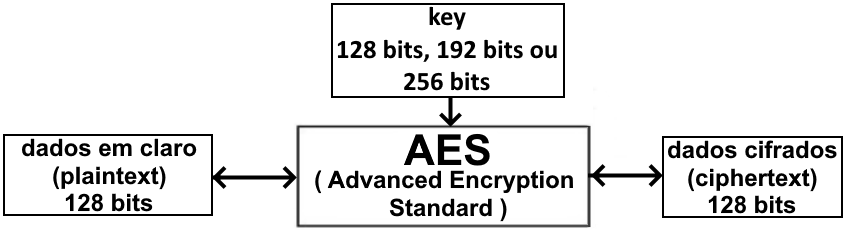
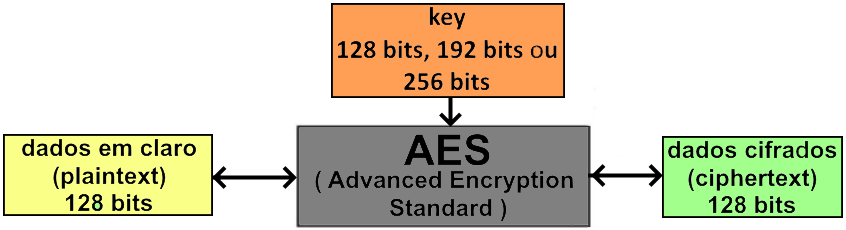
Entrega da semana 1

diff --git a/docs/reports/semana_01.md b/docs/reports/semana_01.md
@@ -12,7 +12,7 @@
 
 A primeira semana do projeto foi dedicada à apresentação do escopo geral, ao estudo inicial do algoritmo AES e do protocolo SPI, à preparação do ambiente de desenvolvimento e à organização do repositório e do backlog inicial.
 
-O [backlog inicial](../backlog.md) foi criado com base nas principais etapas previstas para as 15 semanas do projeto. A especificação funcional detalhada dos módulos deve orientar as interfaces e a implementação nas etapas seguintes, conforme o material do instrutor [4].
+O [backlog inicial](../backlog.md) foi criado com base nas principais etapas previstas para as 15 semanas do projeto.
 
 ### 1.2. Estudo do AES
 
@@ -32,15 +32,15 @@ O AES efetua o processo de criptografia sobre blocos de 128 bits do `plaintext`,
 
 As etapas representadas na Figura 2 são descritas a seguir:
 
-1. **Organização dos dados e expansão da chave.** Antes da cifragem, o *plaintext* de 128 bits é organizado em uma matriz 4 × 4 de 16 bytes, denominada *State*. Em paralelo, a chave original passa pela expansão de chave (*KeyExpansion*), responsável pela preparação das chaves de rodada (*round keys*). Cada chave de rodada possui 128 bits e pode ser representada como uma matriz 4 × 4 de bytes. São utilizadas 11 chaves de rodada no AES-128, 13 no AES-192 e 15 no AES-256, incluindo a chave aplicada na operação inicial.
+1. **Organização dos dados e expansão da chave:** Antes da cifragem, o *plaintext* de 128 bits é organizado em uma matriz 4 × 4 de 16 bytes, denominada *State*. Em paralelo, a chave original passa pela expansão de chave (*KeyExpansion*), responsável pela preparação das chaves de rodada (*round keys*). Cada chave de rodada possui 128 bits e pode ser representada como uma matriz 4 × 4 de bytes. São utilizadas 11 chaves de rodada no AES-128, 13 no AES-192 e 15 no AES-256, incluindo a chave aplicada na operação inicial.
 
-2. **Operação inicial AddRoundKey.** No início da cifragem, os bytes do *State* são combinados com a primeira chave de rodada por meio de operações XOR. Essa operação antecede as rodadas principais.
+2. **Operação inicial AddRoundKey:** No início da cifragem, os bytes do *State* são combinados com a primeira chave de rodada por meio de operações XOR. Essa operação antecede as rodadas principais.
 
-3. **Execução das rodadas principais.** Após a operação inicial, são executadas repetidamente as transformações *SubBytes*, *ShiftRows*, *MixColumns* e *AddRoundKey*, nessa ordem. Em *SubBytes*, cada byte é substituído por outro valor por meio da tabela S-box. Em *ShiftRows*, as linhas do *State* são deslocadas ciclicamente por diferentes quantidades de posições, alterando a disposição dos bytes; a primeira linha permanece inalterada. Em *MixColumns*, cada coluna passa por uma transformação linear invertível que mistura os seus bytes. Por fim, *AddRoundKey* combina o *State* resultante com a chave correspondente à rodada atual. São executadas 9 rodadas principais no AES-128, 11 no AES-192 e 13 no AES-256.
+3. **Execução das rodadas principais:** Após a operação inicial, são executadas repetidamente as transformações *SubBytes*, *ShiftRows*, *MixColumns* e *AddRoundKey*, nessa ordem. Em *SubBytes*, cada byte é substituído por outro valor por meio da tabela S-box. Em *ShiftRows*, as linhas do *State* são deslocadas ciclicamente por diferentes quantidades de posições, alterando a disposição dos bytes; a primeira linha permanece inalterada. Em *MixColumns*, cada coluna passa por uma transformação linear invertível que mistura os seus bytes. Por fim, *AddRoundKey* combina o *State* resultante com a chave correspondente à rodada atual. São executadas 9 rodadas principais no AES-128, 11 no AES-192 e 13 no AES-256.
 
-4. **Rodada final.** A última rodada executa apenas *SubBytes*, *ShiftRows* e *AddRoundKey*, sem aplicar *MixColumns*.
+4. **Rodada final:** A última rodada executa apenas *SubBytes*, *ShiftRows* e *AddRoundKey*, sem aplicar *MixColumns*.
 
-5. **Formação da saída.** Após a última operação *AddRoundKey*, o *State* final é convertido novamente em um bloco de 128 bits, formando o *ciphertext*, que corresponde ao resultado da cifragem.
+5. **Formação da saída:** Após a última operação *AddRoundKey*, o *State* final é convertido novamente em um bloco de 128 bits, formando o *ciphertext*, que corresponde ao resultado da cifragem.
 
 O estudo tem caráter introdutório e servirá como base para a definição da microarquitetura e a implementação do núcleo AES.
 
@@ -62,7 +62,7 @@ A Figura 3 apresenta uma configuração SPI com quatro sinais: SCLK, CS_N, MOSI 
 
 - MISO (*Main In, Subnode Out*) — linha de dados do periférico para o controlador.
 
-No processo de transmissão, inicialmente, o `main` seleciona o `subnode` com o qual deseja se comunicar por meio da ativação da linha CS, normalmente ativa em nível baixo. O sinal de clock `SCLK` é utilizado para sincronizar o `main` e o `subnode`. Como a comunicação SPI é *full-duplex*, é possível receber e transmitir dados simultaneamente. Além disso, o estado de `SCLK` em repouso (*idle*), quando não há transmissão, é definido pelo valor de `CPOL` (*Clock Polarity*), bit de configuração do SPI. Outro bit de configuração, chamado `CPHA` (*Clock Phase*), determina as bordas do clock utilizadas para amostrar os dados recebidos pela linha `MISO` e atualizar os bits transmitidos pela linha `MOSI`, por meio dos registradores de deslocamento do SPI. Combinados, `CPOL` e `CPHA` definem os quatro modos de operação da interface SPI, apresentados na Tabela 1.
+No processo de transmissão, inicialmente, o `main` seleciona o `subnode` com o qual deseja se comunicar por meio da ativação da linha CS, normalmente ativa em nível baixo. O sinal de clock `SCLK` é utilizado para sincronizar o `main` e o `subnode`. Como a comunicação SPI é *full-duplex*, é possível receber e transmitir dados simultaneamente. Além disso, o estado de `SCLK` em repouso (*idle*), quando não há transmissão, é definido pelo valor de `CPOL` (*Clock Polarity*), bit de configuração do SPI. Outro bit de configuração, chamado `CPHA` (*Clock Phase*), determina as bordas do clock utilizadas para amostrar os dados recebidos pela linha `MOSI` e atualizar os bits transmitidos pela linha `MISO`, por meio dos registradores de deslocamento do SPI. Combinados, `CPOL` e `CPHA` definem os quatro modos de operação da interface SPI, apresentados na Tabela 1.
 
 | Modo SPI | CPOL | CPHA | SCLK em repouso | Amostragem de MOSI | Deslocamento para MISO |
 | --- | --- | --- | --- | --- | --- |
@@ -89,18 +89,16 @@ As quatro interfaces de topo estabelecem a conexão do sistema com o ambiente ex
 
 | Interface de topo | Função na arquitetura-base |
 | --- | --- |
-| GLOBAL RESET | Recebe o reset externo, tratado pelo bloco RESET. |
-| clk from OSC | Recebe o clock externo utilizado pelo modelo do PLL para gerar o clock do sistema. |
-| SPI IF | Permite configuração, controle e leitura de status do sistema. |
-| MEMORY DATA IF | Permite a entrada e a saída dos dados processados pelo AES, por meio do subsistema de dados e da memória. |
+| GLOBAL RESET | reset externo, tratado pelo bloco RESET. |
+| clk from OSC | clock externo utilizado pelo modelo do PLL para gerar o clock do sistema. |
+| SPI IF | interface externa para configuração, controle e leitura de status do sistema. |
+| MEMORY DATA IF | entrada e a saída dos dados processados pelo AES, por meio do subsistema de dados e da memória. |
 
 O SPI opera no domínio SCLK, enquanto o banco de registradores e a interface com o AES operam no domínio do sistema. A estratégia de travessia entre esses domínios e o tratamento dos resets serão detalhados na semana 2. Os modelos comportamentais do PLL e da memória ficam em `models/`, separados do RTL sintetizável [4].
 
 ### 1.5. Preparação do ambiente
 
-O ambiente inicial do projeto foi organizado para permitir a execução do fluxo básico de desenvolvimento RTL. A estrutura inicial do repositório foi preparada para separar os principais arquivos do projeto, incluindo código RTL, testbench e documentação.
-
-A estrutura inicial é apresentada a seguir:
+A estrutura inicial do repositório foi preparada para separar os principais arquivos do projeto, incluindo código RTL, testbench e documentação.
 
 ```text
 .
@@ -188,16 +186,17 @@ Os resultados registrados até o momento são:
 
 - teste mínimo de eco executado em simulação, com 1 teste, 0 erros e `TEST PASSED`.
 
-No teste mínimo, a palavra `8'hD3` é enviada por MOSI, com o bit mais significativo primeiro. Cada bit é capturado na subida de SCLK e devolvido por MISO na descida seguinte. O `response_checker` lê MISO após um atraso de 1 ns e compara a palavra recebida com a enviada. A Figura 5 apresenta as formas de onda do teste mínimo de eco visualizadas no Verdi.
+No teste mínimo, a palavra `8'hD3` é enviada por MOSI, com o bit mais significativo primeiro. Cada bit é capturado na subida de SCLK e devolvido por MISO na descida seguinte. O `response_checker` lê MISO após um atraso de 1 ns e compara a palavra recebida com a enviada. A Figura 5 apresenta o resultado da simulação do teste mínimo de eco (a) e as formas de onda visualizadas no Verdi (b).
 
 ![Formas de onda do teste mínimo de eco no Verdi.](images/semana_01/resultado_verdi.png)
 
-*Figura 5 - Formas de onda do teste mínimo de eco no Verdi.*
+*Figura 5 - Resultados do teste mínimo de eco: (a) saída da simulação no VCS, com 1 teste, 0 erros e `TEST PASSED`; (b) formas de onda de MOSI, MISO e SCLK visualizadas no Verdi.*
+
 
 ## 3. Problemas encontrados
 
 Não foram registrados erros no teste mínimo de eco executado, nem foram encontradas outras dificuldades.
-W
+
 ## 4. Próximos passos
 
 Abaixo temos listado as atividades previstas para a semana 02:
